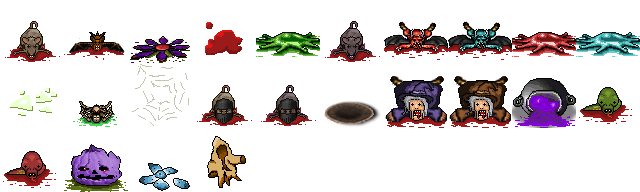
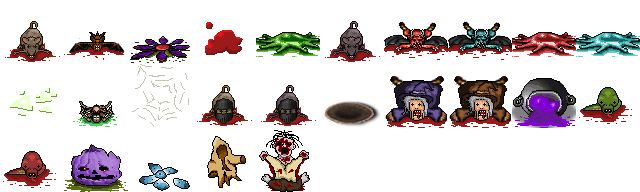
ADD New monster: Zombie

Changed region(s): [[0.4062, 0.6875, 0.5, 1.0]]

diff --git a/src/ZombieEntity.cpp b/src/ZombieEntity.cpp
@@ -1,0 +1,250 @@
+#include "ZombieEntity.h"
+#include "BoltEntity.h"
+#include "PlayerEntity.h"
+#include "sfml_game/SpriteEntity.h"
+#include "sfml_game/ImageManager.h"
+#include "sfml_game/SoundManager.h"
+#include "Constants.h"
+#include "WitchBlastGame.h"
+
+ZombieEntity::ZombieEntity(float x, float y, bool invocated)
+  : EnemyEntity (ImageManager::getInstance().getImage(IMAGE_ZOMBIE), x, y)
+{
+  imagesProLine = 11;
+  this->invocated = invocated;
+
+  frame = 1;
+  dyingFrame = 10;
+  bloodColor = BloodRed;
+  shadowFrame = 9;
+  deathFrame = FRAME_CORPSE_ZOMBIE;
+  if (invocated) enemyType = EnemyTypeZombie_invocated;
+  else enemyType = EnemyTypeZombie;
+  hp = 48;
+  creatureSpeed = 80;
+
+  direction = rand() % 4;
+  clockTurn = rand() % 2 == 0;
+  compute(false);
+  timer = 5 + rand() % 6;
+  attackTimer = 2.0f;
+
+  meleeDamages = 12;
+
+  agonizingSound = SOUND_RAT_DYING;
+  height = 80;
+  sprite.setOrigin(32.0f, 60.0f);
+}
+
+void ZombieEntity::animate(float delay)
+{
+  if (isAgonising)
+  {
+    if (hpDisplay > hp) hpDisplay--;
+
+    if (h < -0.01f)
+    {
+      isAgonising = false;
+      if (willExplode)
+      {
+        makeExplode();
+      }
+      else
+      {
+        isDying = true;
+        SpriteEntity* corpse = new SpriteEntity(ImageManager::getInstance().getImage(IMAGE_CORPSES), x, y - 28, 64, 64);
+        corpse->setFrame(deathFrame);
+        corpse->setImagesProLine(10);
+        corpse->setZ(OFFSET_Y);
+        corpse->setType(ENTITY_CORPSE);
+        if (dyingSound != SOUND_NONE) SoundManager::getInstance().playSound(dyingSound);
+      }
+    }
+    else
+    {
+      frame = dyingFrame;
+      hVelocity -= 700.0f * delay;
+      h += hVelocity * delay;
+    }
+
+    return;
+  }
+  else if (age > 0.0f && !isExploding)
+  {
+    if (attackTimer <= 0.0f && attack())
+    {
+      attackTimer = 2.0f;
+      giveRecoil(false, Vector2D(velocity.x * 3.0f, velocity.y * 3.0f), 2.5f);
+    }
+    else
+    {
+      timer -= delay;
+      attackTimer -= delay;
+      if (timer < 0.0f)
+      {
+        timer = 5 + rand() % 6;
+        if (rand() % 3 == 0) clockTurn = !clockTurn;
+        compute(true);
+      }
+    }
+
+    frame = ((int)(age * 4.0f)) % 4;
+    if (frame == 3) frame = 1;
+    if (facingDirection == 4 || facingDirection == 6) frame += 3;
+    isMirroring = (facingDirection == 4 );
+    if (facingDirection == 8) frame += 6;
+  }
+
+  EnemyEntity::animate(delay);
+  z = y + 17;
+}
+
+bool ZombieEntity::attack()
+{
+  Vector2D playerPos = game().getPlayerPosition();
+
+  // left ?
+  if (playerPos.x < x && playerPos.y > y - 15 && playerPos.y < y + 15 && canSee(playerPos.x, playerPos.y))
+  {
+    direction = 3;
+    velocity.x = -creatureSpeed;
+    velocity.y = 0;
+    facingDirection = 4;
+    return true;
+  }
+  // right ?
+  else if (playerPos.x > x && playerPos.y > y - 15 && playerPos.y < y + 15 && canSee(playerPos.x, playerPos.y))
+  {
+    direction = 1;
+    velocity.x = creatureSpeed;
+    velocity.y = 0;
+    facingDirection = 6;
+    return true;
+  }
+  // down ?
+  else if (playerPos.y > y && playerPos.x > x - 15 && playerPos.x < x + 15 && canSee(playerPos.x, playerPos.y))
+  {
+    direction = 2;
+    velocity.x = 0;
+    velocity.y = creatureSpeed;
+    facingDirection = 2;
+    return true;
+  }
+  // up ?
+  else if (playerPos.y < y && playerPos.x > x - 15 && playerPos.x < x + 15 && canSee(playerPos.x, playerPos.y))
+  {
+    direction = 0;
+    velocity.x = 0;
+    velocity.y = -creatureSpeed;
+    facingDirection = 8;
+    return true;
+  }
+  return false;
+}
+
+void ZombieEntity::compute(bool turn)
+{
+  if (turn)
+  {
+    if (clockTurn)
+    {
+      direction++;
+      if (direction == 4) direction = 0;
+    }
+    else
+    {
+      direction--;
+      if (direction < 0) direction = 3;
+    }
+  }
+
+  switch (direction)
+  {
+  case 0:
+    velocity.x = 0;
+    velocity.y = -creatureSpeed;
+    facingDirection = 8;
+    break;
+
+  case 1:
+    velocity.x = creatureSpeed;
+    velocity.y = 0;
+    facingDirection = 6;
+    break;
+
+  case 2:
+    velocity.x = 0;
+    velocity.y = creatureSpeed;
+    facingDirection = 2;
+    break;
+
+  case 3:
+    velocity.x = -creatureSpeed;
+    velocity.y = 0;
+    facingDirection = 4;
+    break;
+  }
+}
+
+void ZombieEntity::calculateBB()
+{
+  boundingBox.left = (int)x - 14;
+  boundingBox.width = 28;
+  boundingBox.top = (int)y - 18;
+  boundingBox.height =  36;
+}
+
+void ZombieEntity::collideMapRight()
+{
+  if (recoil.active)
+  {
+    if (recoil.stun) recoil.velocity.x = -recoil.velocity.x;
+    else (recoil.active = false);
+  }
+  else compute(true);
+}
+
+void ZombieEntity::collideMapLeft()
+{
+  if (recoil.active)
+  {
+    if (recoil.stun) recoil.velocity.x = -recoil.velocity.x;
+    else (recoil.active = false);
+  }
+  else compute(true);
+}
+
+void ZombieEntity::collideMapTop()
+{
+  if (recoil.active)
+  {
+    if (recoil.stun) recoil.velocity.y = -recoil.velocity.y;
+    else (recoil.active = false);
+  }
+  else compute(true);
+}
+
+void ZombieEntity::collideMapBottom()
+{
+  if (recoil.active)
+  {
+    if (recoil.stun) recoil.velocity.y = -recoil.velocity.y;
+    else (recoil.active = false);
+  }
+  else compute(true);
+}
+
+void ZombieEntity::collideWithEnemy(EnemyEntity* entity)
+{
+  if (entity->getMovingStyle() == movWalking)
+  {
+    Vector2D recoilVector = Vector2D(entity->getX(), entity->getY()).vectorTo(Vector2D(x, y), 50.0f);
+    giveRecoil(false, recoilVector, 0.2f);
+    compute(true);
+  }
+}
+
+void ZombieEntity::drop()
+{
+  if (!invocated) EnemyEntity::drop();
+}

diff --git a/src/WitchBlastGame.cpp b/src/WitchBlastGame.cpp
@@ -42,6 +42,7 @@
 #include "CauldronEntity.h"
 #include "SnakeEntity.h"
 #include "GhostEntity.h"
+#include "ZombieEntity.h"
 #include "LittleSpiderEntity.h"
 #include "SpiderEggEntity.h"
 #include "ArtefactDescriptionEntity.h"
@@ -107,6 +108,7 @@ WitchBlastGame::WitchBlastGame():
     "media/bubble.png",        "media/witch.png",
     "media/cauldron.png",      "media/snake.png",
     "media/pumpkin.png",       "media/ghost.png",
+    "media/zombie.png",
     "media/butcher.png",       "media/giant_slime.png",
     "media/king_rat.png",      "media/cyclops.png",
     "media/giant_spider.png",  "media/blood.png",
@@ -780,6 +782,7 @@ void WitchBlastGame::updateRunningGame()
       if (event.key.code == sf::Keyboard::F12)
       {
         initMonsterArray();
+        findPlaceMonsters(EnemyTypeZombie, 2);
         findPlaceMonsters(EnemyTypeGhost, 2);
       }
       #endif // TEST_MODE
@@ -2549,6 +2552,9 @@ void WitchBlastGame::addMonster(enemyTypeEnum monsterType, float xm, float ym)
   case EnemyTypeGhost:
     new GhostEntity(xm, ym);
     break;
+  case EnemyTypeZombie:
+    new ZombieEntity(xm, ym, false);
+    break;
 
   case EnemyTypeSpiderEgg_invocated:
     new SpiderEggEntity(xm, ym);
@@ -3794,6 +3800,8 @@ std::string WitchBlastGame::enemyToString(enemyTypeEnum enemyType)
     case EnemyTypeWitchRed: value = "enemy_type_witch_red"; break;
     case EnemyTypeCauldron: value = "enemy_type_cauldron"; break;
     case EnemyTypeGhost: value = "enemy_type_ghost"; break;
+    case EnemyTypeZombie_invocated:
+    case EnemyTypeZombie: value = "enemy_type_zombie"; break;
 
     // mini boss
     case EnemyTypeBubble: value = "enemy_type_bubble"; break;

diff --git a/src/Constants.h b/src/Constants.h
@@ -20,7 +20,7 @@
 #include <string>
 
 // for turbo tests
-// #define TURBO_MODE
+#define TURBO_MODE
 
 const std::string APP_NAME =      "Witch Blast";
 const std::string APP_VERSION =   "0.3.8";
@@ -100,6 +100,7 @@ enum item_images {
   IMAGE_SNAKE,
   IMAGE_PUMPKIN,
   IMAGE_GHOST,
+  IMAGE_ZOMBIE,
 
   IMAGE_BUTCHER,
   IMAGE_GIANT_SLIME,
@@ -231,6 +232,7 @@ enum corpses_ressources{
   FRAME_CORPSE_PUMPKIN,
   FRAME_CORPSE_FLOWER_ICE,
   FRAME_CORPSE_GHOST,
+  FRAME_CORPSE_ZOMBIE,
 
   FRAME_CORPSE_KING_RAT,
   FRAME_CORPSE_GIANT_SLIME,
@@ -418,7 +420,7 @@ const int GHOST_HP = 40;
 const int GHOST_DAMAGE = 8;
 
 // Butcher
-const int BUTCHER_HP = 150;
+const int BUTCHER_HP = 120;
 const int BUTCHER_DAMAGES = 8;
 const int BUTCHER_VELOCITY = 100;
 
@@ -439,8 +441,8 @@ const float GIANT_SLIME_ULTRA_JUMP_TIMER = 2.3f;
 
 // KingRat
 const float KING_RAT_SPEED = 210.0f;
-const float KING_RAT_RUNNING_SPEED = 620.0f;
-const float KING_RAT_BERSERK_SPEED = 260.0f;
+const float KING_RAT_RUNNING_SPEED = 650.0f;
+const float KING_RAT_BERSERK_SPEED = 275.0f;
 const float KING_RAT_RUNNING_RECOIL = 750.0f;
 const int KING_RAT_HP = 700;
 const int KING_RAT_DAMAGES = 8;
@@ -449,7 +451,7 @@ const int KING_RAT_DAMAGES = 8;
 const float CYCLOP_SPEED[4] = { 140, 150, 160, 170};
 const int CYCLOP_NUMBER_ROCKS[4] = { 5, 7, 9, 12};
 const float CYCLOP_FIRE_DELAY[4] = { 0.3f, 0.26f, 0.23f, 0.2f};
-const int CYCLOP_HP = 800;
+const int CYCLOP_HP = 880;
 const int CYCLOP_DAMAGES = 8;
 
 // Giant Spider

diff --git a/src/ZombieEntity.h b/src/ZombieEntity.h
@@ -1,0 +1,33 @@
+#ifndef ZOMBIEENTITY_H
+#define ZOMBIEENTITY_H
+
+#include "EnemyEntity.h"
+
+class ZombieEntity : public EnemyEntity
+{
+  public:
+    ZombieEntity(float x, float y, bool invocated);
+    virtual void animate(float delay);
+    virtual void calculateBB();
+
+  protected:
+    virtual void collideMapRight();
+    virtual void collideMapLeft();
+    virtual void collideMapTop();
+    virtual void collideMapBottom();
+    virtual void collideWithEnemy(EnemyEntity* entity) override;
+    virtual void drop();
+
+  private:
+    bool invocated;
+    int direction;
+    bool clockTurn;
+
+    float timer;
+    float attackTimer;
+
+    void compute(bool turn);
+    bool attack();
+};
+
+#endif // ZOMBIEENTITY_H

diff --git a/src/BaseCreatureEntity.h b/src/BaseCreatureEntity.h
@@ -28,6 +28,7 @@ enum enemyTypeEnum
   EnemyTypeWitchRed,
   EnemyTypeCauldron,
   EnemyTypeGhost,
+  EnemyTypeZombie,
 
   // mini boss
   EnemyTypeBubble,
@@ -53,6 +54,7 @@ enum enemyTypeEnum
   EnemyTypePumpkin_invocated,
   EnemyTypeSpiderEgg_invocated,
   EnemyTypeSpiderLittle_invocated,
+  EnemyTypeZombie_invocated,
 
   EnemyTypeRockFalling,
   EnemyTypeRockMissile,
